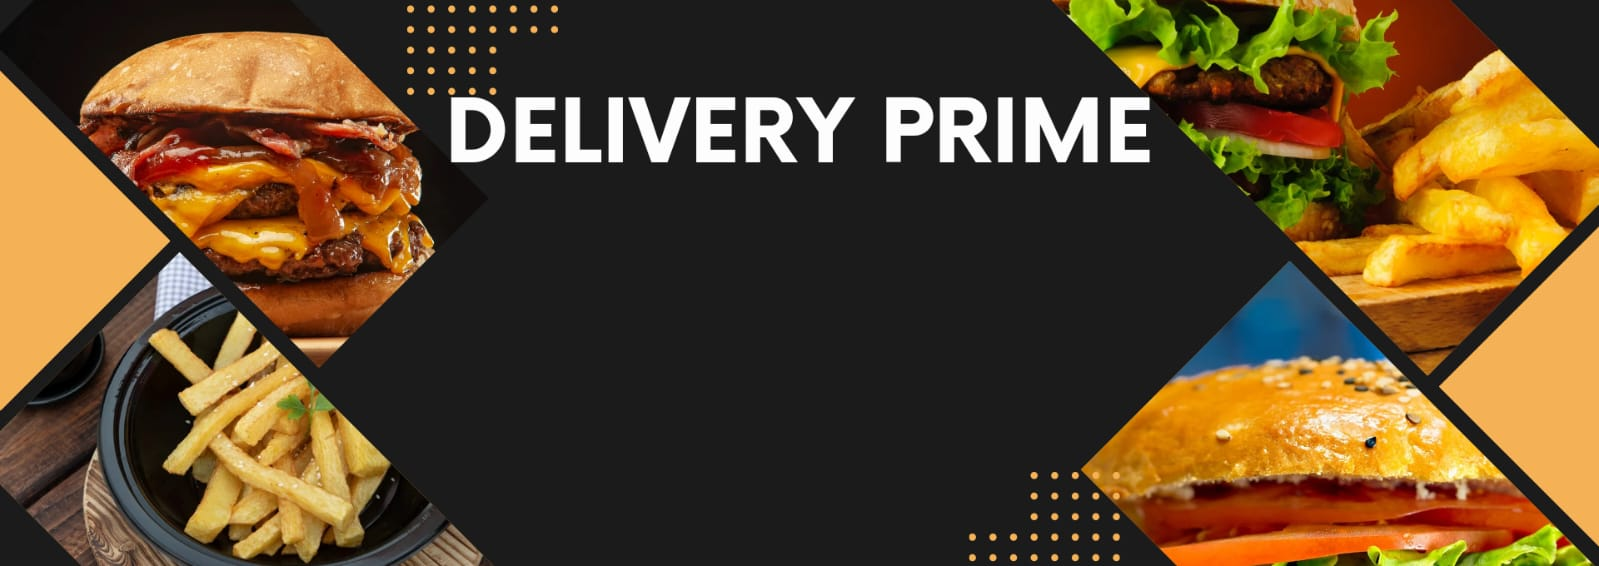
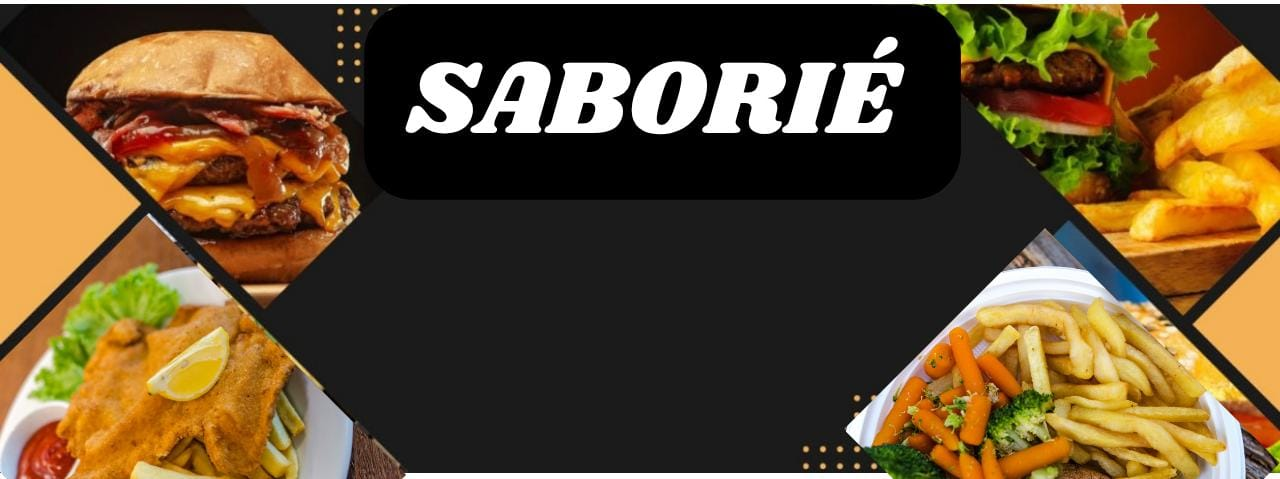
Minhas alterações locais

diff --git a/index.html b/index.html
@@ -16,27 +16,27 @@
 
     <link rel="stylesheet" href="./styles/output.css" />
 
-    <title>Delivery Prime</title>
+    <title>Saborié</title>
 </head>
 
 <body>
     <!--header-->
     <header class="w-full h-[420px] bg-cover bg-center" style="background-image: url('./assents/bg\ delivery.png');">>
         <div class="w-full h-full flex flex-col justify-center items-center text-center">
-            <img src="./assents/hamb-3.png" alt="logo"
+            <img src="./assents/logo.png" alt="logo"
                 class="w-32 h-32 rounded-full shadow-lg hover:scale-110 transition duration-200" />
             <h1 class="text-4xl mt-4 mb-2 font-bold text-white hover:scale-110 transition duration-200">
-                Delivery <span class="text-red-500">Prime</span>
+                Saborié <span class="text-red-500"></span>
             </h1>
 
             <span class="text-white font-medium">
-                Rua do Arame nº 188c, Jardim Uniao
+                Somente Delivery
             </span>
 
             <div class="bg-green-600 px-6 py-2 rounded-lg mt-5 flex items-center gap-2 hover:bg-green-500 transition duration-200"
                 id="date-span">
                 <i class="fa fa-clock text-white"></i>
-                <span class="text-white font-medium">Domingo à Sexta - 15:00 às 23:00</span>
+                <span class="text-white font-medium">Segunda a Quinta - 18:00 às 23:00</span>
             </div>
         </div>
     </header>
@@ -59,7 +59,7 @@
                     <p class="text-sm">descrição descrição descrição</p>
                 </div>
                 <div class="flex flex-col items-end">
-                    <p class="font-bold text-lg mb-2">R$ 18,50</p>
+                    <p class="font-bold text-base mb-1 text-green-600">R$ 18,50</p>
                     <button class="bg-gray-900 px-5 py-2 rounded add-to-cart-btn" data-name="Smash" data-price="18,50">
                         <i class="fa fa-cart-plus text-lg text-white"></i>
                     </button>
@@ -76,7 +76,7 @@
                     <p class="text-sm">descrição descrição descrição</p>
                 </div>
                 <div class="flex flex-col items-end">
-                    <p class="font-bold text-lg mb-2">R$ 16,50</p>
+                    <p class="font-bold text-base mb-1 text-green-600">R$ 16,50</p>
                     <button class="bg-gray-900 px-5 py-2 rounded add-to-cart-btn" data-name="Hamburguer simples"
                         data-price="16,50">
                         <i class="fa fa-cart-plus text-lg text-white"></i>
@@ -94,7 +94,7 @@
                     <p class="text-sm">descrição descrição descrição</p>
                 </div>
                 <div class="flex flex-col items-end">
-                    <p class="font-bold text-lg mb-2">R$ 17,50</p>
+                    <p class="font-bold text-base mb-1 text-green-600">R$ 17,50</p>
                     <button class="bg-gray-900 px-5 py-2 rounded add-to-cart-btn" data-name="Jc Burguer"
                         data-price="17,50">
                         <i class="fa fa-cart-plus text-lg text-white"></i>
@@ -112,7 +112,7 @@
                     <p class="text-sm">descrição descrição descrição</p>
                 </div>
                 <div class="flex flex-col items-end">
-                    <p class="font-bold text-lg mb-2">R$ 18,50</p>
+                    <p class="font-bold text-base mb-1 text-green-600">R$ 18,50</p>
                     <button class="bg-gray-900 px-5 py-2 rounded add-to-cart-btn" data-name="Duplo" data-price="18,50">
                         <i class="fa fa-cart-plus text-lg text-white"></i>
                     </button>
@@ -140,7 +140,7 @@
 
                 </div>
                 <div class="flex flex-col items-end">
-                    <p class="font-bold text-lg mb-2">R$ 7,50</p>
+                    <p class="ffont-bold text-base mb-1 text-green-600">R$ 7,50</p>
                     <button class="bg-gray-900 px-5 py-2 rounded add-to-cart-btn" data-name="Coca Cola"
                         data-price="7,50">
                         <i class="fa fa-cart-plus text-lg text-white"></i>
@@ -158,7 +158,7 @@
 
                 </div>
                 <div class="flex flex-col items-end">
-                    <p class="font-bold text-lg mb-2">R$ 7,50</p>
+                    <p class="font-bold text-base mb-1 text-green-600">R$ 7,50</p>
                     <button class="bg-gray-900 px-5 py-2 rounded add-to-cart-btn" data-name="Guaraná" data-price="7,50">
                         <i class="fa fa-cart-plus text-lg text-white"></i>
                     </button>
@@ -174,33 +174,94 @@
     <!--Fim Menu-->
 
 
-    <!--modal cart-->
-    <div class="bg-black/60 w-full h-full fixed top-0 left-0 z-[99] items-center justify-center hidden" id="cart-modal">
-        <div class="bg-white p-6 rounded-lg shadow-lg min-w-[90%] md:min-w-[600px]">
-            <h2 class="text-center font-bold text-2xl mb-4">Meu Carrinho</h2>
-            <div id="cart-items" class="flex flex-col space-y-4 mb-4 "></div>
-            <p class="font-bold text-lg">Total: <span id="cart-total" class="text-red-500">0,00</span></p>
-            <div class="mt-6">
-                <p class="font-bold mb-2">Endereço de Entrega</p>
-                <input type="text" placeholder="Digite seu Endereço Completo..." id="address"
-                    class="w-full border-2 border-gray-300 p-2 rounded-lg focus:border-red-500 outline-none" />
-                <p class="text-red-500 hidden mt-1" id="address-warn">Digite Seu Endereço Completo!</p>
-            </div>
-            <div class="flex items-center justify-between mt-6">
-                <button id="close-modal-btn"
-                    class="bg-red-500 hover:bg-red-600 text-white px-6 py-2 rounded-lg shadow-md transition duration-200  ">Fechar</button>
-                <button id="checkout-btn"
-                    class="bg-green-500 hover:bg-green-600 text-white px-6 py-2 rounded-lg shadow-md transition duration-200">Finalizar
-                    Pedido</button>
+    <!-- ... (todo o restante acima permanece igual, até o modal do carrinho) -->
 
-                    
-   
-            </div>
+<!--modal cart-->
+<div
+  id="cart-modal"
+  class="bg-black/60 fixed top-0 left-0 z-[99] hidden w-full h-full flex items-center justify-center"
+>
+  <div
+    class="bg-white p-6 rounded-lg shadow-lg min-w-[90%] md:min-w-[600px] max-h-[90vh] flex flex-col"
+  >
+    <!-- Conteúdo rolável: adicionei overflow-y-auto e limite de altura -->
+    <div style="overflow-y:auto; max-height:75vh;">
+      <h2 class="text-center font-bold text-2xl mb-4">Meu Carrinho</h2>
+      <div id="cart-items" class="flex flex-col space-y-4 mb-4"></div>
+      <p class="font-bold text-lg">Total: <span id="cart-total" class="text-red-500">0,00</span></p>
+
+      <!-- Nome do cliente -->
+      <div class="mt-6">
+        <p class="font-bold mb-2">Seu Nome</p>
+        <input
+          type="text"
+          placeholder="Digite seu nome completo..."
+          id="client-name"
+          class="w-full border-2 border-gray-300 p-2 rounded-lg focus:border-red-500 outline-none"
+        />
+        <p class="text-red-500 hidden mt-1" id="name-warn">Digite seu nome!</p>
+      </div>
+      <!--Fim nome cliente-->
+
+      <!-- Endereço -->
+      <div class="mt-6">
+        <p class="font-bold mb-2">Endereço de Entrega</p>
+        <input
+          type="text"
+          placeholder="Rua / Avenida"
+          id="address"
+          class="w-full border-2 border-gray-300 p-2 rounded-lg focus:border-red-500 outline-none mb-2"
+        />
+        <input
+          type="text"
+          placeholder="Número"
+          id="address-number"
+          class="w-full border-2 border-gray-300 p-2 rounded-lg focus:border-red-500 outline-none mb-2"
+        />
+        <input
+          type="text"
+          placeholder="Complemento (opcional)"
+          id="address-complement"
+          class="w-full border-2 border-gray-300 p-2 rounded-lg focus:border-red-500 outline-none"
+        />
+        <p class="text-red-500 hidden mt-1" id="address-warn">Preencha o endereço e o número!</p>
+      </div>
+
+      <!-- Pagamento -->
+      <div class="mt-6">
+        <p class="font-bold mb-2">Forma de Pagamento</p>
+        <div class="flex flex-col gap-2">
+          <label><input type="radio" name="payment-option" value="PIX" /> PIX</label>
+          <label><input type="radio" name="payment-option" value="Cartão" /> Cartão</label>
+          <label><input type="radio" name="payment-option" value="Dinheiro" /> Dinheiro</label>
         </div>
+        <p class="text-red-500 hidden mt-1" id="payment-warn">Selecione uma forma de pagamento!</p>
+      </div>
     </div>
 
-    </div><br>
-    <!--fim modal cart-->
+    <!-- Botões fixos abaixo do conteúdo rolável -->
+    <div class="flex items-center justify-between mt-6">
+      <button
+        id="close-modal-btn"
+        class="bg-red-500 hover:bg-red-600 text-white px-6 py-2 rounded-lg shadow-md transition duration-200"
+      >
+        Fechar
+      </button>
+      <button
+        id="checkout-btn"
+        class="bg-green-500 hover:bg-green-600 text-white px-6 py-2 rounded-lg shadow-md transition duration-200"
+      >
+        Finalizar Pedido
+      </button>
+    </div>
+  </div>
+</div>
+<!--fim modal cart-->
+
+
+
+<!-- ... restante do HTML continua igual -->
+
 
     
 
@@ -238,9 +299,9 @@
             <div class="w-full lg:w-2/3 lg:pr-24 mb-10 lg:mb-0">
                 <h3 class="text-2xl font-bold mb-5">Sobre Nós</h3>
                 <p class="text-justify">
-                    Delivery Prime: Sua Lanchonete Favorita ao Alcance de um Clique
+                    Saborié: Sua Lanchonete Favorita ao Alcance de um Clique
 
-Bem-vindo à Delivery Prime, a lanchonete que traz até você os sabores irresistíveis que você ama, com a comodidade que você merece. Fundada com o objetivo de transformar a experiência de pedidos online, nossa missão é oferecer refeições deliciosas e entregas rápidas, sempre prezando pela qualidade e satisfação dos nossos clientes.
+Bem-vindo à Saborié, a lanchonete que traz até você os sabores irresistíveis que você ama, com a comodidade que você merece. Fundada com o objetivo de transformar a experiência de pedidos online, nossa missão é oferecer refeições deliciosas e entregas rápidas, sempre prezando pela qualidade e satisfação dos nossos clientes.
                 </p>
             </div>
 
@@ -248,8 +309,8 @@ Bem-vindo à Delivery Prime, a lanchonete que traz até você os sabores irresis
                 <h3 class="text-2xl font-bold mb-5">Contato</h3>
                 <ul class="text-lg">
                     <li class="mb-2"><i class="fa fa-phone"></i> (00) 1234-5678</li>
-                    <li class="mb-2"><i class="fa fa-envelope"></i> contato@deliveryprime.com.br</li>
-                    <li class="mb-2"><i class="fa fa-map-marker"></i> Rua do Arame nº 188c, Jardim Uniao</li>
+                    <li class="mb-2"><i class="fa fa-envelope"></i> contato@saborié.com.br</li>
+                    <li class="mb-2"><i class="fa fa-map-marker"></i> Somente Delivery</li>
                 </ul>
             </div>
         </div>

diff --git a/public/index.html b/public/index.html
@@ -1,0 +1,89 @@
+<!DOCTYPE html>
+<html>
+  <head>
+    <meta charset="utf-8">
+    <meta name="viewport" content="width=device-width, initial-scale=1">
+    <title>Welcome to Firebase Hosting</title>
+
+    <!-- update the version number as needed -->
+    <script defer src="/__/firebase/11.10.0/firebase-app-compat.js"></script>
+    <!-- include only the Firebase features as you need -->
+    <script defer src="/__/firebase/11.10.0/firebase-auth-compat.js"></script>
+    <script defer src="/__/firebase/11.10.0/firebase-database-compat.js"></script>
+    <script defer src="/__/firebase/11.10.0/firebase-firestore-compat.js"></script>
+    <script defer src="/__/firebase/11.10.0/firebase-functions-compat.js"></script>
+    <script defer src="/__/firebase/11.10.0/firebase-messaging-compat.js"></script>
+    <script defer src="/__/firebase/11.10.0/firebase-storage-compat.js"></script>
+    <script defer src="/__/firebase/11.10.0/firebase-analytics-compat.js"></script>
+    <script defer src="/__/firebase/11.10.0/firebase-remote-config-compat.js"></script>
+    <script defer src="/__/firebase/11.10.0/firebase-performance-compat.js"></script>
+    <!-- 
+      initialize the SDK after all desired features are loaded, set useEmulator to false
+      to avoid connecting the SDK to running emulators.
+    -->
+    <script defer src="/__/firebase/init.js?useEmulator=true"></script>
+
+    <style media="screen">
+      body { background: #ECEFF1; color: rgba(0,0,0,0.87); font-family: Roboto, Helvetica, Arial, sans-serif; margin: 0; padding: 0; }
+      #message { background: white; max-width: 360px; margin: 100px auto 16px; padding: 32px 24px; border-radius: 3px; }
+      #message h2 { color: #ffa100; font-weight: bold; font-size: 16px; margin: 0 0 8px; }
+      #message h1 { font-size: 22px; font-weight: 300; color: rgba(0,0,0,0.6); margin: 0 0 16px;}
+      #message p { line-height: 140%; margin: 16px 0 24px; font-size: 14px; }
+      #message a { display: block; text-align: center; background: #039be5; text-transform: uppercase; text-decoration: none; color: white; padding: 16px; border-radius: 4px; }
+      #message, #message a { box-shadow: 0 1px 3px rgba(0,0,0,0.12), 0 1px 2px rgba(0,0,0,0.24); }
+      #load { color: rgba(0,0,0,0.4); text-align: center; font-size: 13px; }
+      @media (max-width: 600px) {
+        body, #message { margin-top: 0; background: white; box-shadow: none; }
+        body { border-top: 16px solid #ffa100; }
+      }
+    </style>
+  </head>
+  <body>
+    <div id="message">
+      <h2>Welcome</h2>
+      <h1>Firebase Hosting Setup Complete</h1>
+      <p>You're seeing this because you've successfully setup Firebase Hosting. Now it's time to go build something extraordinary!</p>
+      <a target="_blank" href="https://firebase.google.com/docs/hosting/">Open Hosting Documentation</a>
+    </div>
+    <p id="load">Firebase SDK Loading&hellip;</p>
+
+    <script>
+      document.addEventListener('DOMContentLoaded', function() {
+        const loadEl = document.querySelector('#load');
+        // // 🔥🔥🔥🔥🔥🔥🔥🔥🔥🔥🔥🔥🔥🔥🔥🔥🔥🔥🔥🔥🔥🔥🔥🔥🔥🔥🔥🔥🔥🔥🔥
+        // // The Firebase SDK is initialized and available here!
+        //
+        // firebase.auth().onAuthStateChanged(user => { });
+        // firebase.database().ref('/path/to/ref').on('value', snapshot => { });
+        // firebase.firestore().doc('/foo/bar').get().then(() => { });
+        // firebase.functions().httpsCallable('yourFunction')().then(() => { });
+        // firebase.messaging().requestPermission().then(() => { });
+        // firebase.storage().ref('/path/to/ref').getDownloadURL().then(() => { });
+        // firebase.analytics(); // call to activate
+        // firebase.analytics().logEvent('tutorial_completed');
+        // firebase.performance(); // call to activate
+        //
+        // // 🔥🔥🔥🔥🔥🔥🔥🔥🔥🔥🔥🔥🔥🔥🔥🔥🔥🔥🔥🔥🔥🔥🔥🔥🔥🔥🔥🔥🔥🔥🔥
+
+        try {
+          let app = firebase.app();
+          let features = [
+            'auth', 
+            'database', 
+            'firestore',
+            'functions',
+            'messaging', 
+            'storage', 
+            'analytics', 
+            'remoteConfig',
+            'performance',
+          ].filter(feature => typeof app[feature] === 'function');
+          loadEl.textContent = `Firebase SDK loaded with ${features.join(', ')}`;
+        } catch (e) {
+          console.error(e);
+          loadEl.textContent = 'Error loading the Firebase SDK, check the console.';
+        }
+      });
+    </script>
+  </body>
+</html>

diff --git a/public/404.html b/public/404.html
@@ -1,0 +1,33 @@
+<!DOCTYPE html>
+<html>
+  <head>
+    <meta charset="utf-8">
+    <meta name="viewport" content="width=device-width, initial-scale=1">
+    <title>Page Not Found</title>
+
+    <style media="screen">
+      body { background: #ECEFF1; color: rgba(0,0,0,0.87); font-family: Roboto, Helvetica, Arial, sans-serif; margin: 0; padding: 0; }
+      #message { background: white; max-width: 360px; margin: 100px auto 16px; padding: 32px 24px 16px; border-radius: 3px; }
+      #message h3 { color: #888; font-weight: normal; font-size: 16px; margin: 16px 0 12px; }
+      #message h2 { color: #ffa100; font-weight: bold; font-size: 16px; margin: 0 0 8px; }
+      #message h1 { font-size: 22px; font-weight: 300; color: rgba(0,0,0,0.6); margin: 0 0 16px;}
+      #message p { line-height: 140%; margin: 16px 0 24px; font-size: 14px; }
+      #message a { display: block; text-align: center; background: #039be5; text-transform: uppercase; text-decoration: none; color: white; padding: 16px; border-radius: 4px; }
+      #message, #message a { box-shadow: 0 1px 3px rgba(0,0,0,0.12), 0 1px 2px rgba(0,0,0,0.24); }
+      #load { color: rgba(0,0,0,0.4); text-align: center; font-size: 13px; }
+      @media (max-width: 600px) {
+        body, #message { margin-top: 0; background: white; box-shadow: none; }
+        body { border-top: 16px solid #ffa100; }
+      }
+    </style>
+  </head>
+  <body>
+    <div id="message">
+      <h2>404</h2>
+      <h1>Page Not Found</h1>
+      <p>The specified file was not found on this website. Please check the URL for mistakes and try again.</p>
+      <h3>Why am I seeing this?</h3>
+      <p>This page was generated by the Firebase Command-Line Interface. To modify it, edit the <code>404.html</code> file in your project's configured <code>public</code> directory.</p>
+    </div>
+  </body>
+</html>
